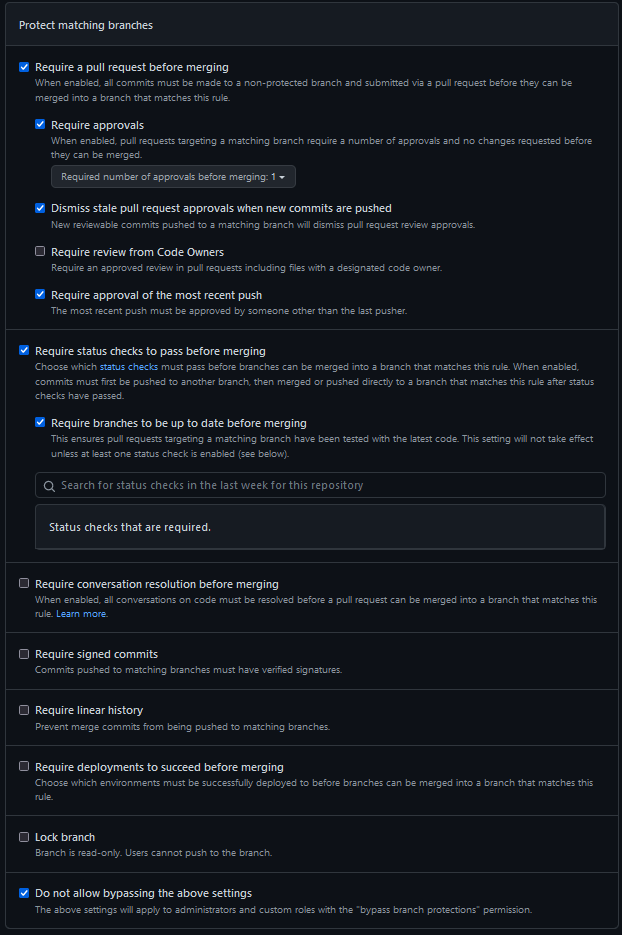
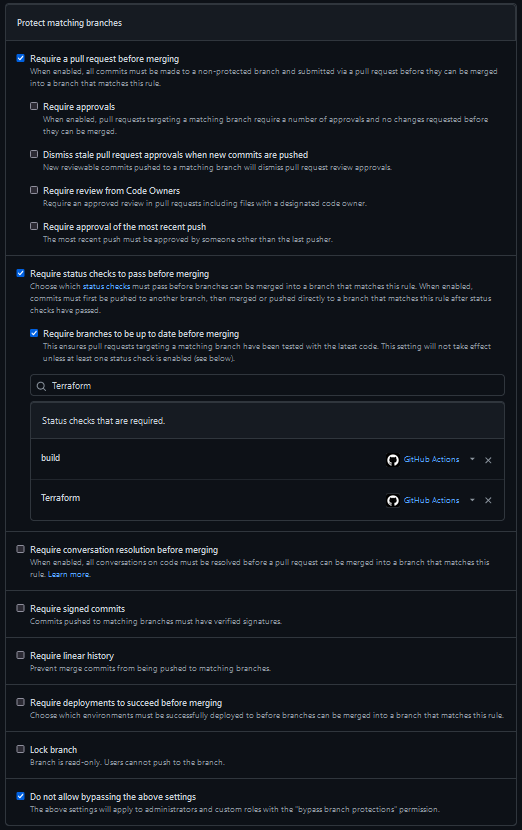
added status checks

diff --git a/README.md b/README.md
@@ -17,6 +17,9 @@ så kan du velge disse reglene
   - Require approval of the most recent push
 - Require status checks to pass before merging
   - Require branches to be up to date before merging
+  - need to add status checks
+    - add status check: build
+    - add status check: terraform
 - Do not allow bypassing the above settings
 ![img_2.png](img/oppgave2.3.3.png)
 så kan du trykke save changes og da vil du ha branch protection på main branchen.
